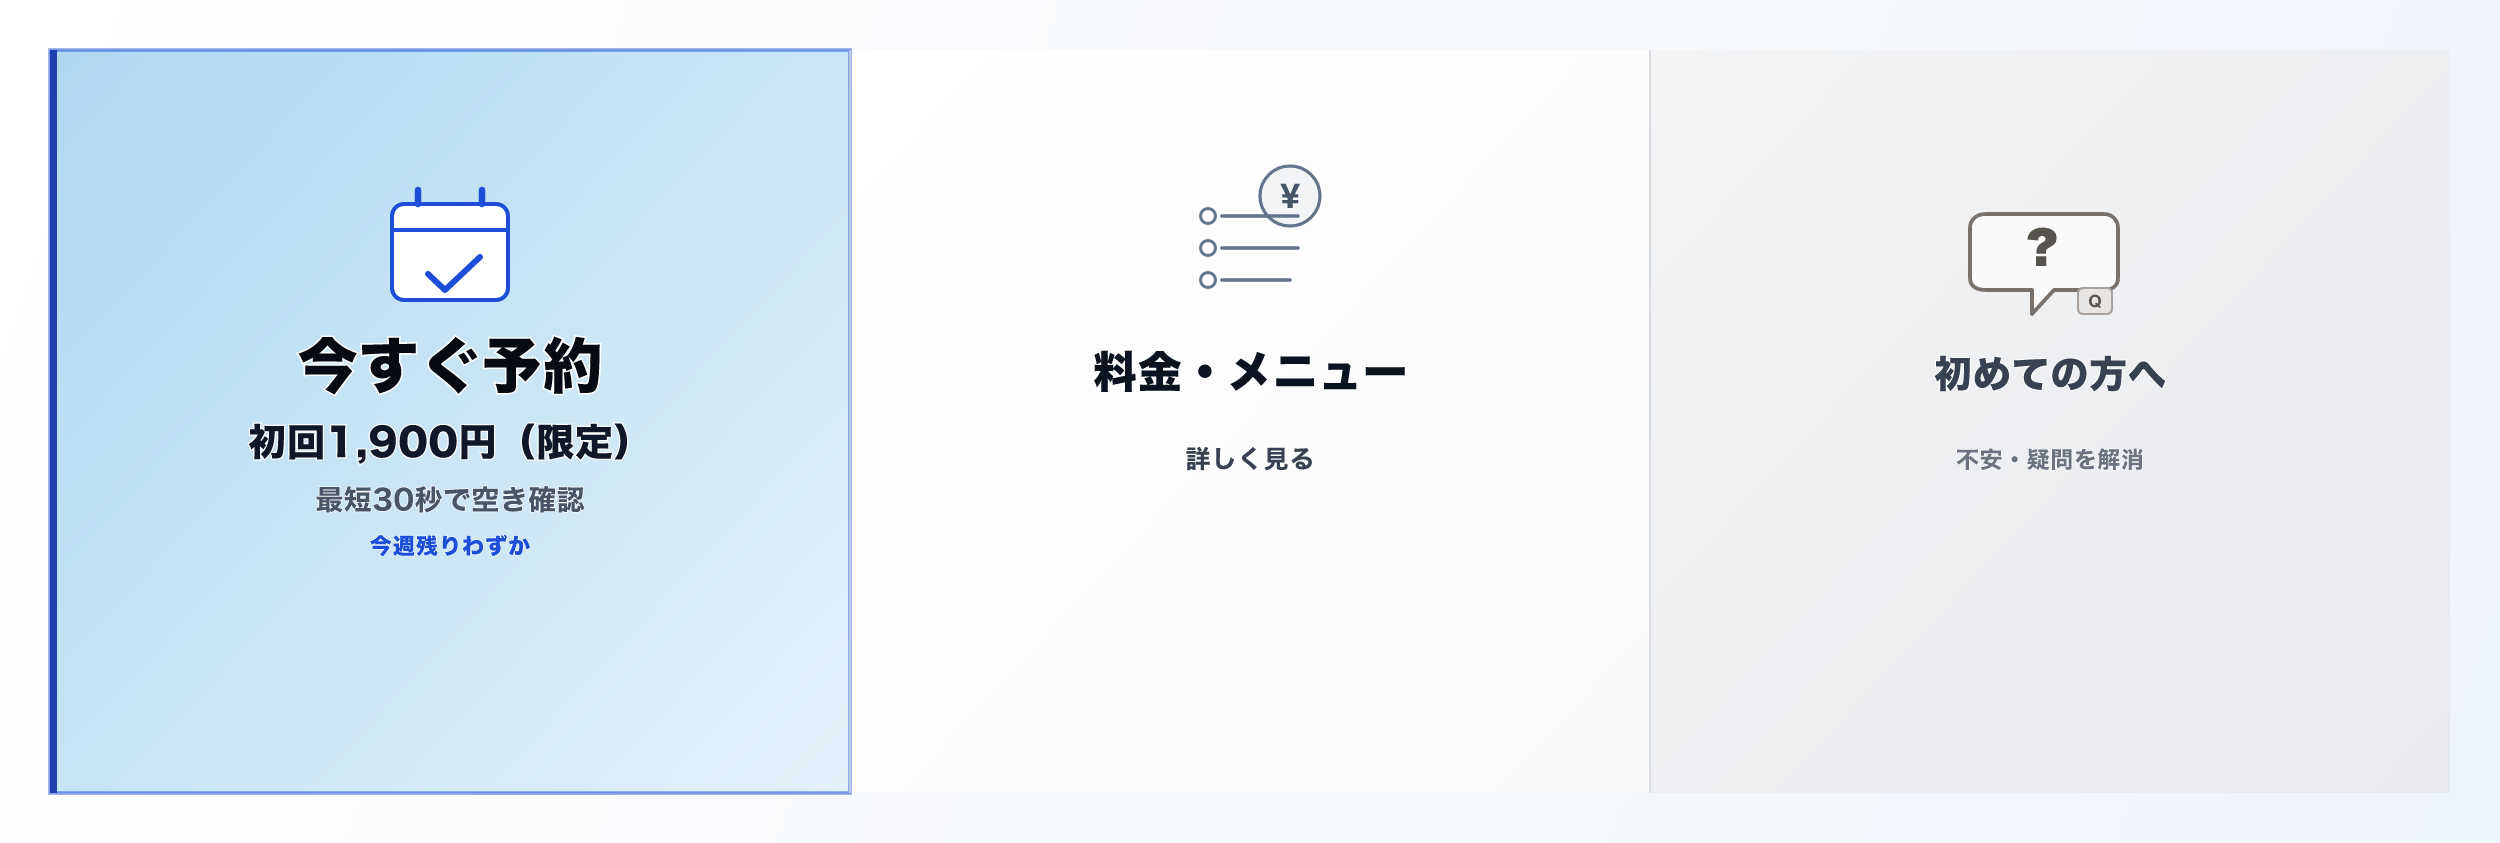
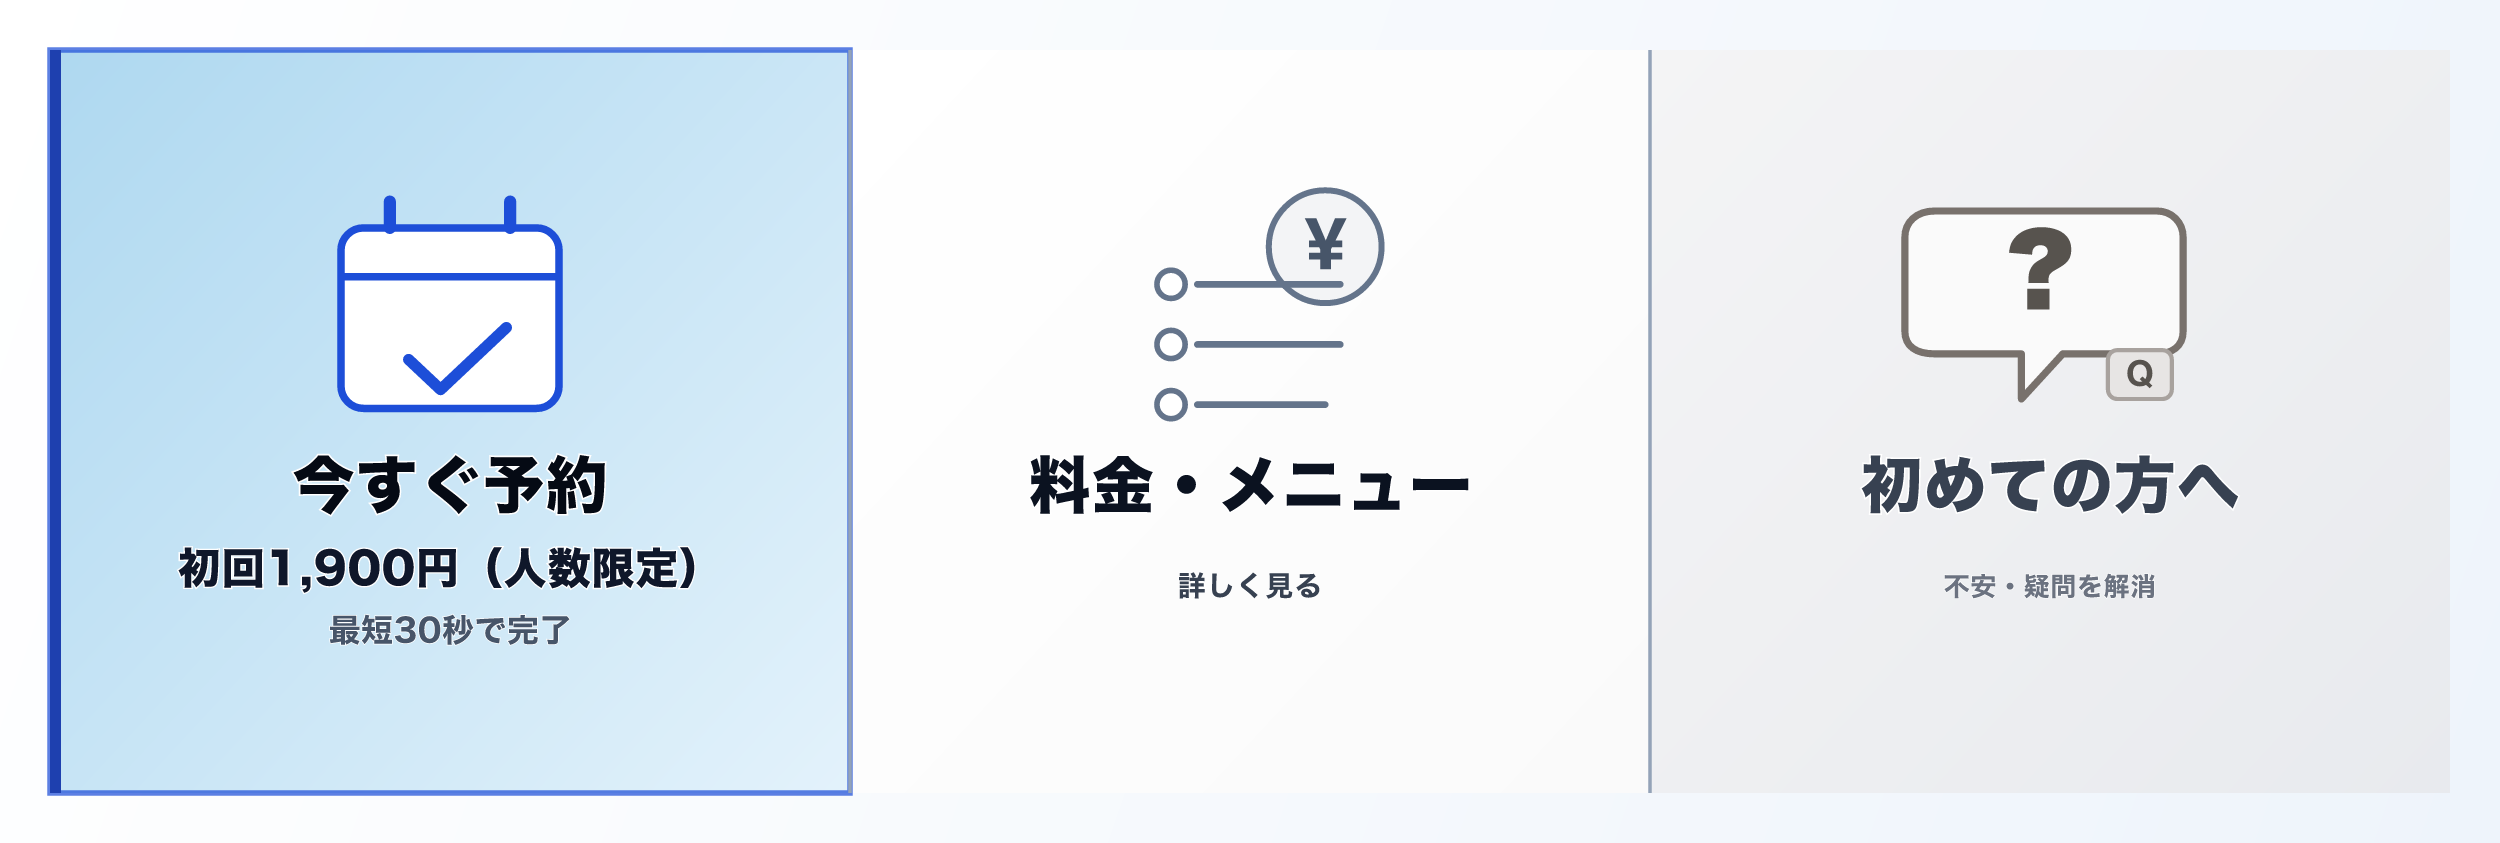
LP文言と店舗情報の表示を調整。
ヒーロー文言・MidCTAラベル削除・店舗情報の中央揃えとアクセス案内文を反映し、関連する未使用スタイルを整理しました。

diff --git a/src/components/MidCTA.css b/src/components/MidCTA.css
@@ -5,11 +5,3 @@
   align-items: center;
   gap: var(--space-24);
 }
-
-.mid-cta__label {
-  margin: 0;
-  max-width: 24rem;
-  font-weight: var(--fw-heading);
-  letter-spacing: var(--ls);
-  color: var(--color-muted);
-}

diff --git a/src/components/StoreInfo.css b/src/components/StoreInfo.css
@@ -2,6 +2,10 @@
   margin-top: var(--space-24);
 }
 
+.store .lp-h2 {
+  text-align: center;
+}
+
 .store__value-lead {
   margin: 0 0 var(--space-24);
 }
@@ -49,7 +53,7 @@
 
 .store__text {
   margin: 0 0 var(--space-16);
-  text-align: left;
+  text-align: center;
 }
 
 .store__text--note {

diff --git a/src/components/StoreInfo.tsx b/src/components/StoreInfo.tsx
@@ -39,7 +39,8 @@ export function StoreInfo() {
             営業時間 10:00〜20:00／予約優先・不定休
           </p>
           <p className="store__text lp-body">
-            JR松橋駅より徒歩約15分。上記住所をナビに入力いただくとスムーズです。
+            JR松橋駅より徒歩約15分。
+            上記住所をナビに入力いただくとスムーズです。
           </p>
           <p className="store__text lp-body">駐車12台。バス停（松橋高校前）は目の前です。</p>
           <p className="store__text store__text--note lp-caption">

diff --git a/src/components/Hero.tsx b/src/components/Hero.tsx
@@ -52,7 +52,7 @@ export function Hero() {
           ) : null}
         </div>
 
-        <p className="hero__sub">まずは1回、目安30〜45分で確認できます</p>
+        <p className="hero__sub">まずは1回、目安30〜45分で体験できます</p>
 
         <div className="hero__visual" aria-label="店内・施術の写真">
           <p className="hero__visual-label lp-caption">店内のようす</p>

diff --git a/src/components/MidCTA.tsx b/src/components/MidCTA.tsx
@@ -5,7 +5,6 @@ export function MidCTA() {
   return (
     <aside className="mid-cta lp-section lp-section--tint" aria-label="LINEで気になる点を聞く">
       <div className="lp-section__inner mid-cta__inner">
-        <p className="mid-cta__label lp-caption">迷いがあるなら、ここだけ</p>
         <CtaBlock
           reason={
             <>

diff --git a/src/index.css b/src/index.css
@@ -283,7 +283,6 @@ h3 {
   .whitening-steps__lead,
   .whitening-steps__bullet,
   .hero__headline-line--resolve,
-  .mid-cta__label,
   .salon-diff__lead,
   .salon-diff__point-body,
   .salon-diff__close {